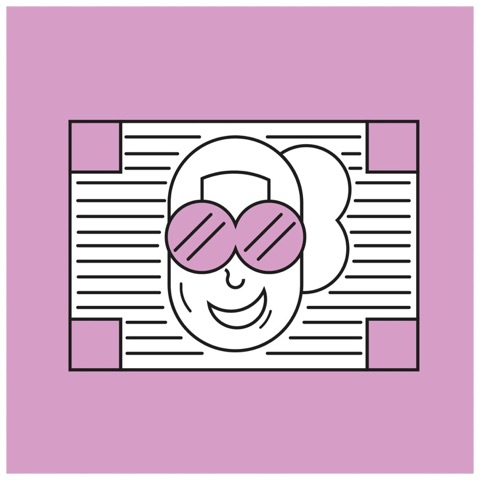
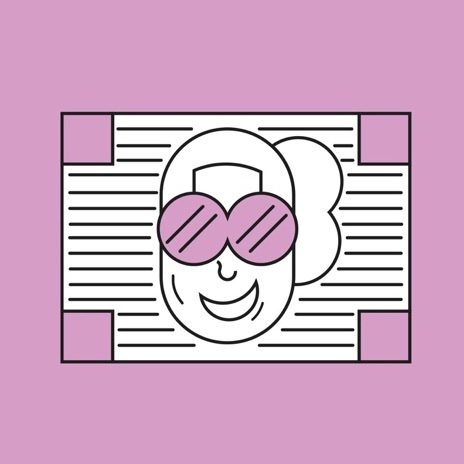
Ajustement mineur de l'image dans le hero

Changed region(s): [[0.1207, 0.2414, 0.9052, 0.7845], [0.0, 0.0, 1.0, 1.0]]

diff --git a/index.html b/index.html
@@ -66,7 +66,7 @@
         <figure class="hero__portrait">
           <img class="hero__decor" src="images/nuage.svg" alt="" width="64" height="40">
           <div class="hero__photo shape shape--arch shape--pink shape--tilt-left">
-            <img src="images/sticker-1.jpg" alt="Autoportrait d'Emilie en sticker&nbsp;: un visage au trait avec des lunettes roses" width="480" height="480">
+            <img src="images/sticker-1.jpg?v=2" alt="Autoportrait d'Emilie en sticker&nbsp;: un visage au trait avec des lunettes roses" width="464" height="464">
           </div>
           <figcaption class="note">
             <img class="note__arrow" src="images/fleche-haut.svg" alt="" width="48" height="40">
@@ -129,7 +129,7 @@
           </article>
           <article class="project-card">
             <div class="project-card__visual shape shape--blob shape--pink shape--grid">
-              <img src="images/sticker-1.jpg" alt="Sticker&nbsp;: mon autoportrait au trait, avec des lunettes roses" width="480" height="480" loading="lazy">
+              <img src="images/sticker-1.jpg?v=2" alt="Sticker&nbsp;: mon autoportrait au trait, avec des lunettes roses" width="464" height="464" loading="lazy">
               <img src="images/sticker-5.jpg" alt="Sticker&nbsp;: logo Illustrator sur un motif de pinceaux et de palettes" width="480" height="480" loading="lazy">
               <img src="images/sticker-2.jpg" alt="Sticker&nbsp;: mon pseudo en lettrage noir et vert" width="480" height="480" loading="lazy">
               <img src="images/sticker-6.jpg" alt="Sticker&nbsp;: logo Premiere Pro sur un motif de caméras et de claps" width="480" height="480" loading="lazy">

diff --git a/en/index.html b/en/index.html
@@ -66,7 +66,7 @@
         <figure class="hero__portrait">
           <img class="hero__decor" src="../images/nuage.svg" alt="" width="64" height="40">
           <div class="hero__photo shape shape--arch shape--pink shape--tilt-left">
-            <img src="../images/sticker-1.jpg" alt="Emilie's self-portrait as a sticker: a line-drawn face with pink glasses" width="480" height="480">
+            <img src="../images/sticker-1.jpg?v=2" alt="Emilie's self-portrait as a sticker: a line-drawn face with pink glasses" width="464" height="464">
           </div>
           <figcaption class="note">
             <img class="note__arrow" src="../images/fleche-haut.svg" alt="" width="48" height="40">
@@ -129,7 +129,7 @@
           </article>
           <article class="project-card">
             <div class="project-card__visual shape shape--blob shape--pink shape--grid">
-              <img src="../images/sticker-1.jpg" alt="Sticker: my self-portrait in line art, with pink glasses" width="480" height="480" loading="lazy">
+              <img src="../images/sticker-1.jpg?v=2" alt="Sticker: my self-portrait in line art, with pink glasses" width="464" height="464" loading="lazy">
               <img src="../images/sticker-5.jpg" alt="Sticker: Illustrator logo on a pattern of brushes and palettes" width="480" height="480" loading="lazy">
               <img src="../images/sticker-2.jpg" alt="Sticker: my nickname in black and green lettering" width="480" height="480" loading="lazy">
               <img src="../images/sticker-6.jpg" alt="Sticker: Premiere Pro logo on a pattern of cameras and clapperboards" width="480" height="480" loading="lazy">

diff --git a/projets.html b/projets.html
@@ -121,7 +121,7 @@
           </div>
           <div class="project__media project__media--stickers">
             <ul class="project__stickers">
-              <li class="project__sticker"><img src="images/sticker-1.jpg" alt="Sticker&nbsp;: mon autoportrait au trait, avec des lunettes roses" width="480" height="480" loading="lazy"></li>
+              <li class="project__sticker"><img src="images/sticker-1.jpg?v=2" alt="Sticker&nbsp;: mon autoportrait au trait, avec des lunettes roses" width="464" height="464" loading="lazy"></li>
               <li class="project__sticker"><img src="images/sticker-3.jpg" alt="Sticker&nbsp;: le mot Organisation dessiné comme un labyrinthe" width="480" height="480" loading="lazy"></li>
               <li class="project__sticker"><img src="images/sticker-5.jpg" alt="Sticker&nbsp;: logo Illustrator sur un motif de pinceaux et de palettes" width="480" height="480" loading="lazy"></li>
               <li class="project__sticker"><img src="images/sticker-6.jpg" alt="Sticker&nbsp;: logo Premiere Pro sur un motif de caméras et de claps" width="480" height="480" loading="lazy"></li>

diff --git a/en/projects.html b/en/projects.html
@@ -121,7 +121,7 @@
           </div>
           <div class="project__media project__media--stickers">
             <ul class="project__stickers">
-              <li class="project__sticker"><img src="../images/sticker-1.jpg" alt="Sticker: my self-portrait in line art, with pink glasses" width="480" height="480" loading="lazy"></li>
+              <li class="project__sticker"><img src="../images/sticker-1.jpg?v=2" alt="Sticker: my self-portrait in line art, with pink glasses" width="464" height="464" loading="lazy"></li>
               <li class="project__sticker"><img src="../images/sticker-3.jpg" alt="Sticker: the word Organisation drawn as a maze" width="480" height="480" loading="lazy"></li>
               <li class="project__sticker"><img src="../images/sticker-5.jpg" alt="Sticker: Illustrator logo on a pattern of brushes and palettes" width="480" height="480" loading="lazy"></li>
               <li class="project__sticker"><img src="../images/sticker-6.jpg" alt="Sticker: Premiere Pro logo on a pattern of cameras and clapperboards" width="480" height="480" loading="lazy"></li>

diff --git a/a-propos.html b/a-propos.html
@@ -54,7 +54,7 @@
       <div class="container about">
         <figure class="about__portrait">
           <div class="about__photo shape shape--arch shape--violet shape--tilt-left">
-            <img src="images/sticker-1.jpg" alt="Autoportrait d'Emilie en sticker&nbsp;: un visage au trait avec des lunettes roses" width="480" height="480">
+            <img src="images/sticker-1.jpg?v=2" alt="Autoportrait d'Emilie en sticker&nbsp;: un visage au trait avec des lunettes roses" width="464" height="464">
           </div>
           <figcaption class="note">
             <img class="note__arrow" src="images/fleche-haut.svg" alt="" width="48" height="40">

diff --git a/en/about.html b/en/about.html
@@ -54,7 +54,7 @@
       <div class="container about">
         <figure class="about__portrait">
           <div class="about__photo shape shape--arch shape--violet shape--tilt-left">
-            <img src="../images/sticker-1.jpg" alt="Emilie's self-portrait as a sticker: a line-drawn face with pink glasses" width="480" height="480">
+            <img src="../images/sticker-1.jpg?v=2" alt="Emilie's self-portrait as a sticker: a line-drawn face with pink glasses" width="464" height="464">
           </div>
           <figcaption class="note">
             <img class="note__arrow" src="../images/fleche-haut.svg" alt="" width="48" height="40">
